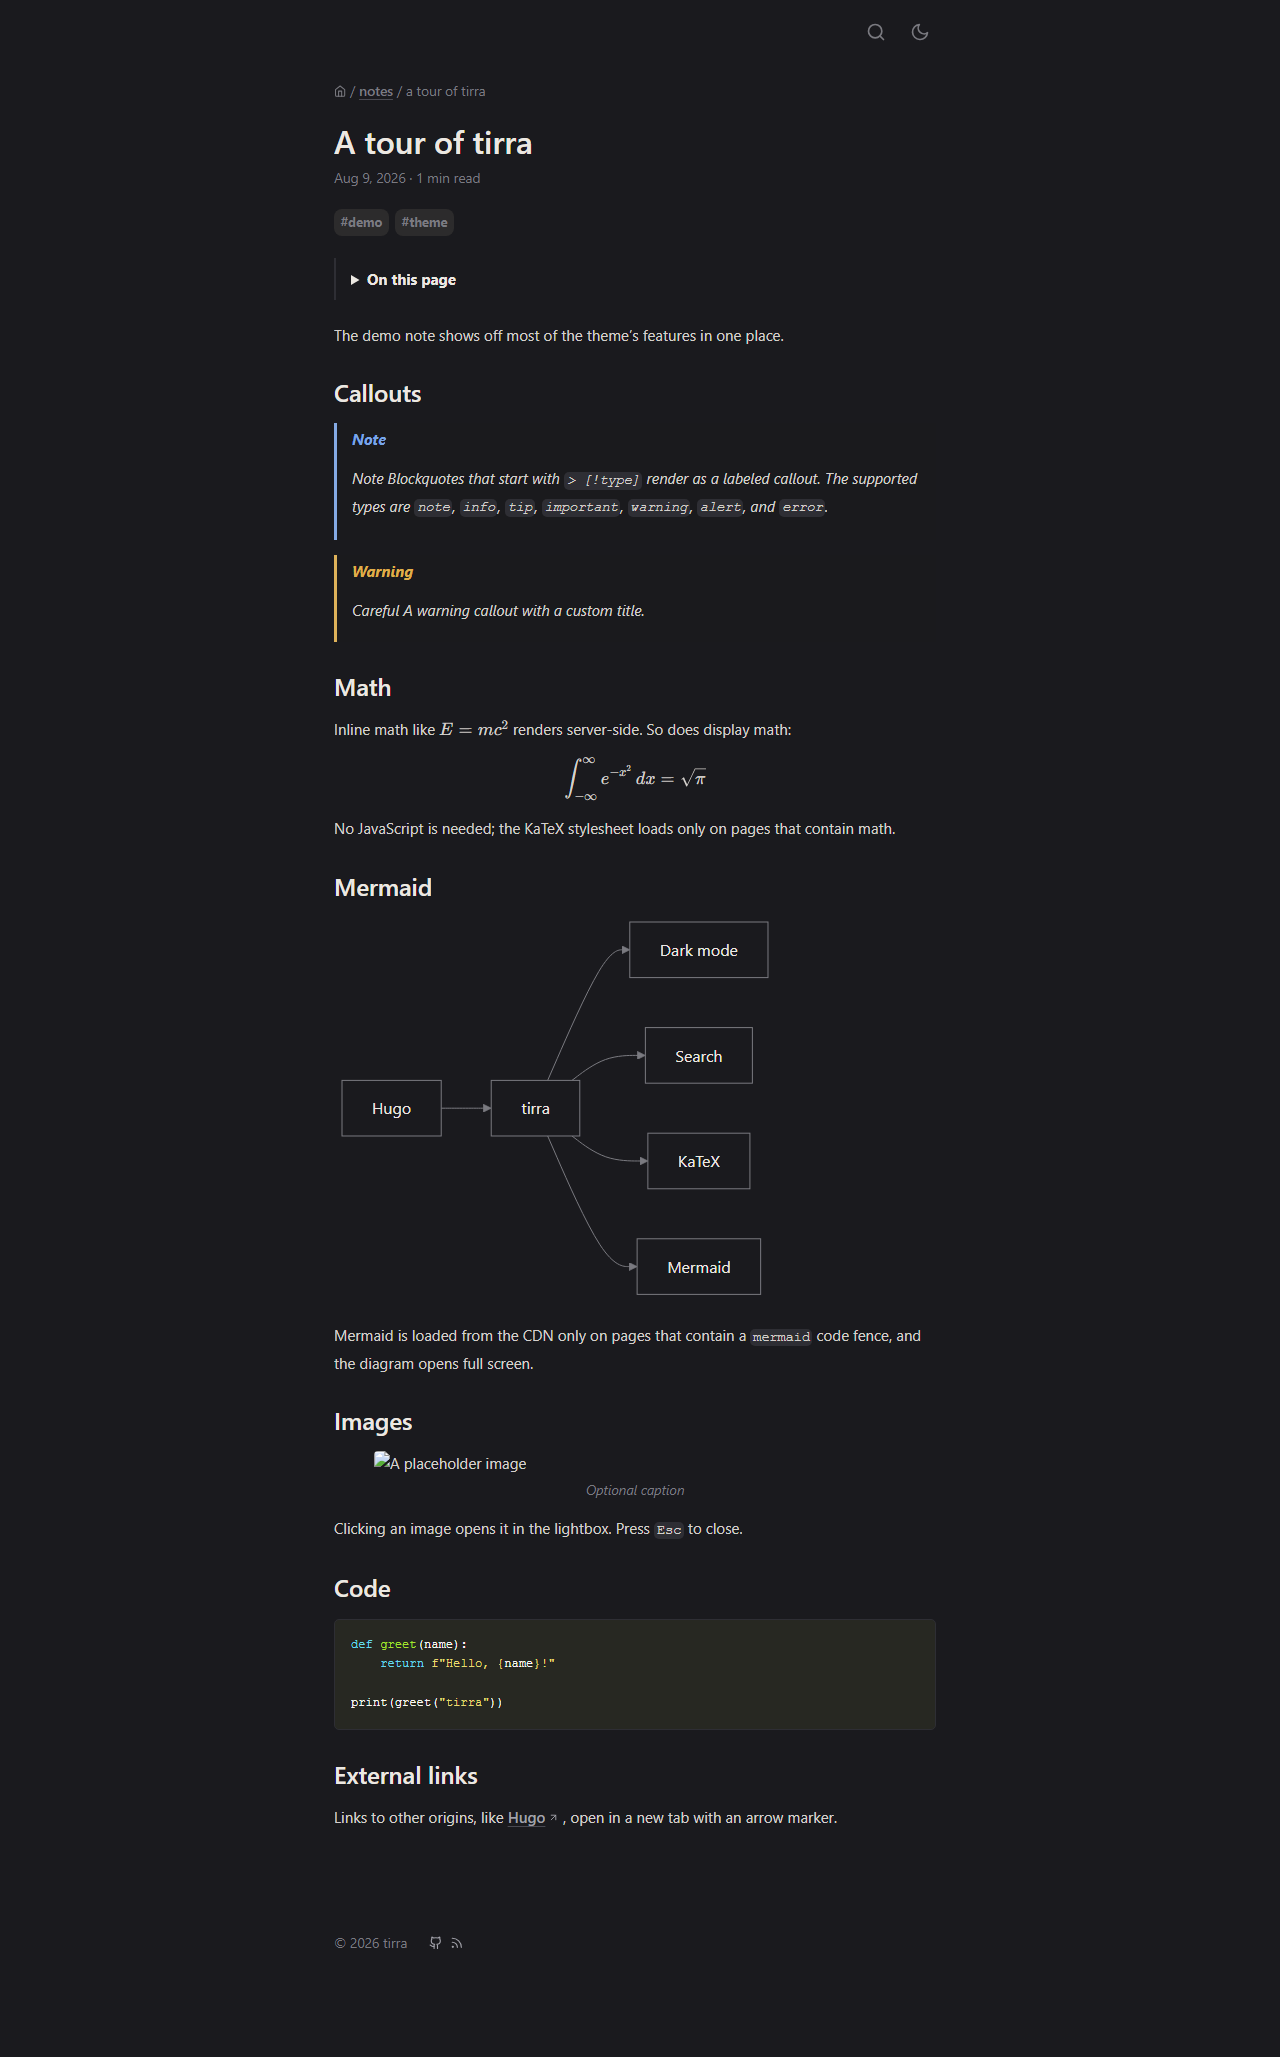
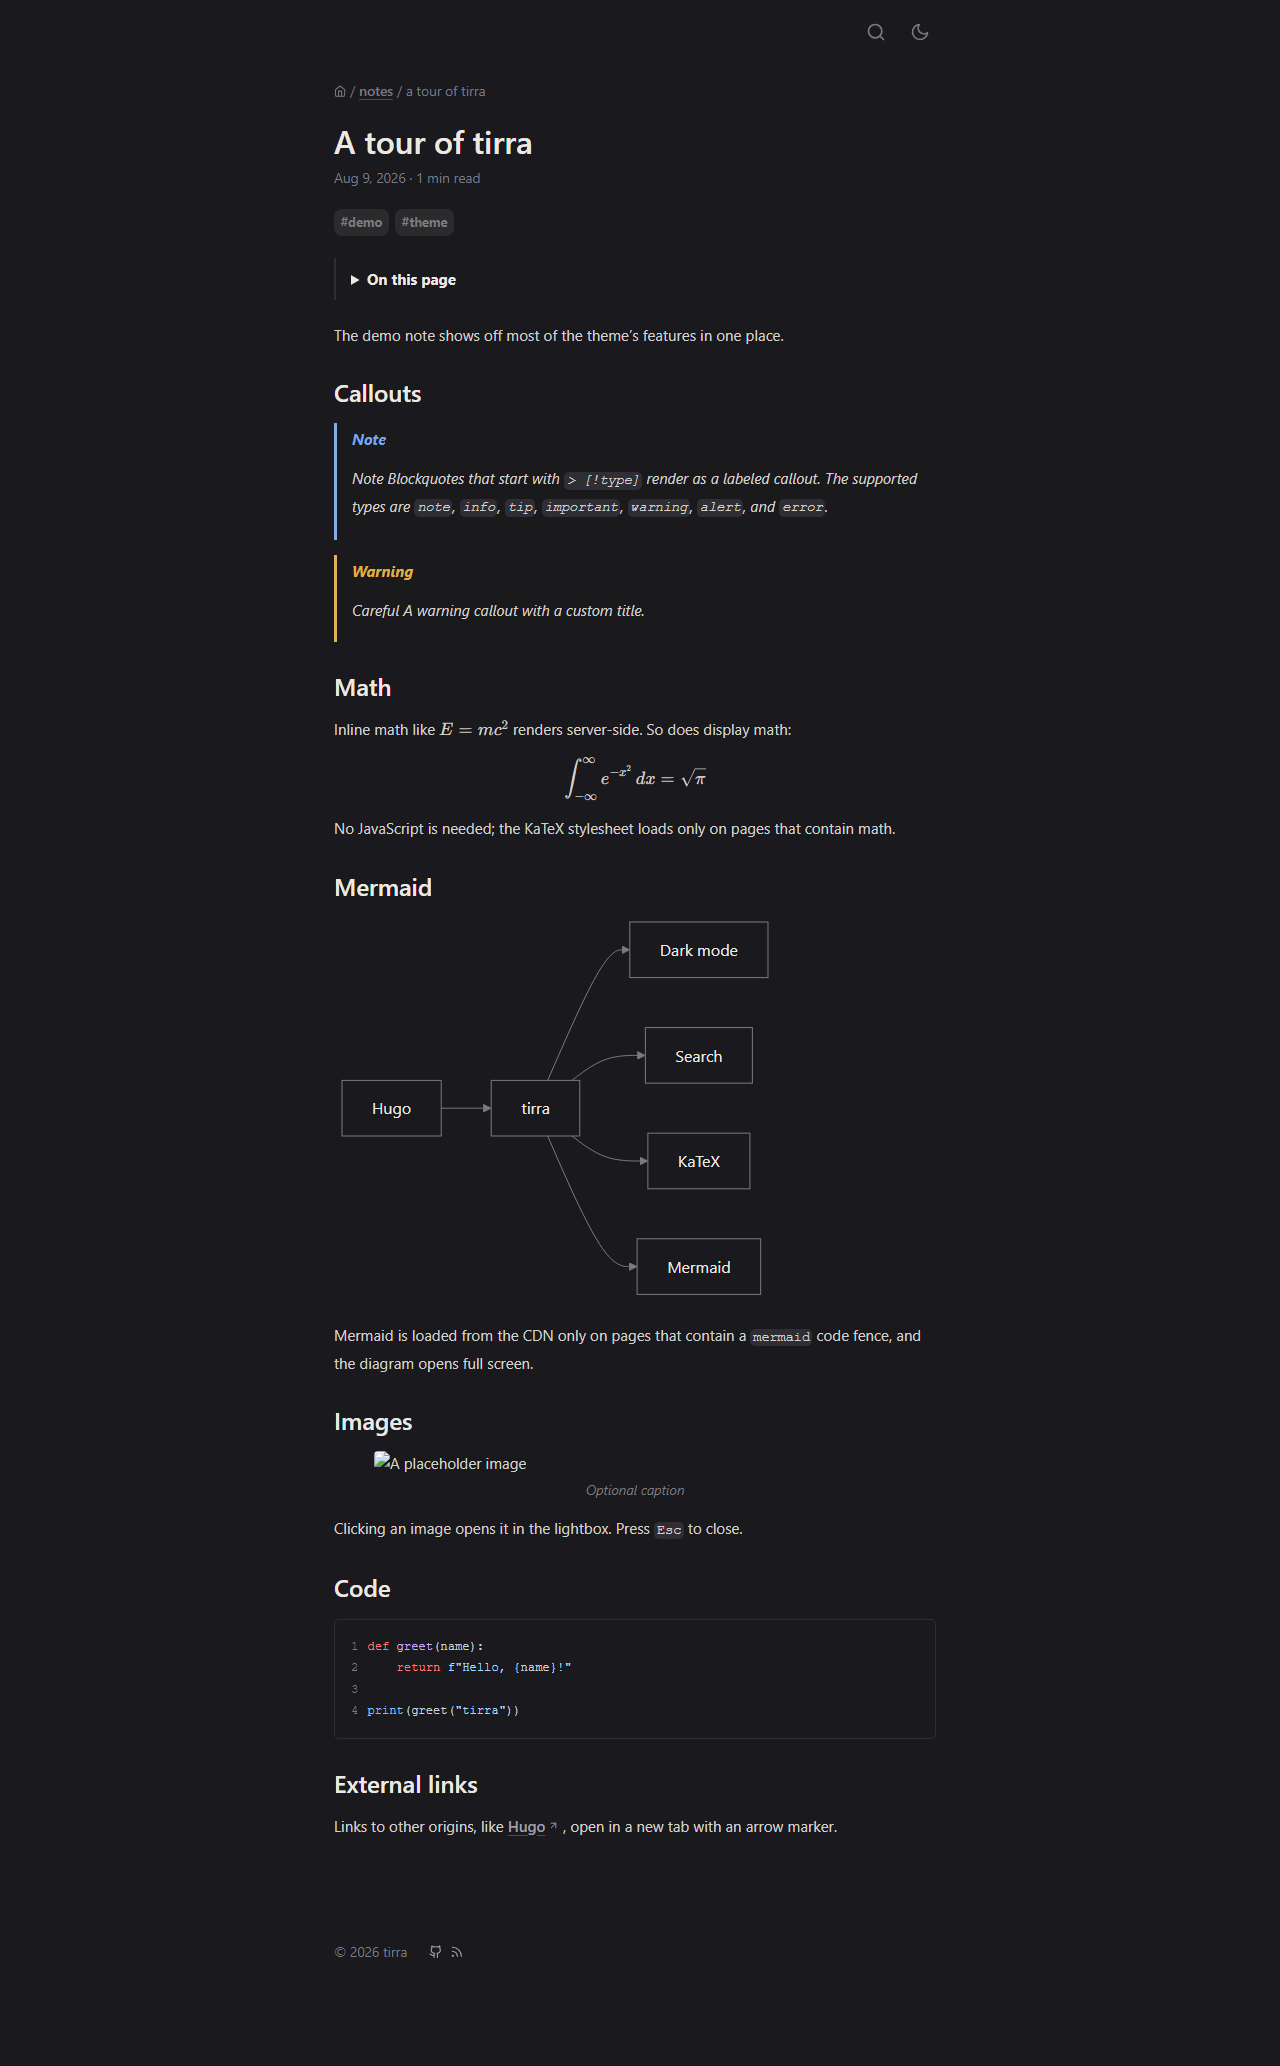
Theme code-block highlight defaults via theme config; re-capture article screenshots

diff --git a/README.md b/README.md
@@ -44,11 +44,16 @@ npx playwright screenshot --viewport-size="1280,800" --full-page http://localhos
 
 ## Install
 
-Copy `themes/tirra` into your site's `themes/` directory (or add it as a submodule), then in `hugo.toml`:
+Copy `themes/tirra` into your site's `themes/` directory (or add it as a submodule), then set in `hugo.toml`:
 
 ```toml
 theme = "tirra"
+
+[markup]
+  _merge = "deep"
 ```
+
+`_merge = "deep"` lets the theme's markup defaults (themed code blocks instead of Chroma's default styling) apply; your own `[markup]` settings still win. If you'd rather set it explicitly, configure `[markup.highlight]` with `noClasses = false`.
 
 ## Demo site
 
